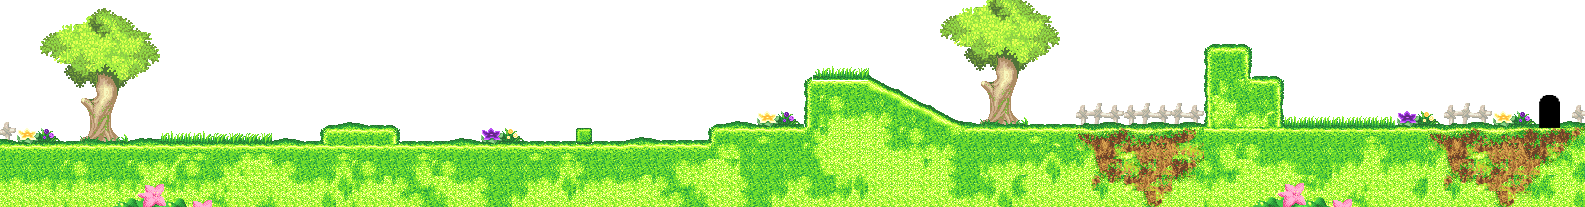
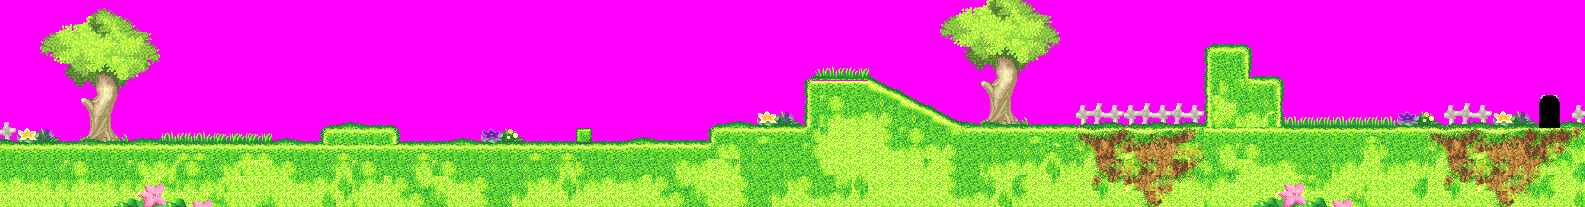
이민하 :  배경 테스트로 넣기

diff --git a/API/ContentsProject/Stage1_2GameMode.cpp b/API/ContentsProject/Stage1_2GameMode.cpp
@@ -1,5 +1,6 @@
 #include "PreCompile.h"
 #include "Stage1_2GameMode.h"
+#include "Stage1_2Map.h"
 #include <EnginePlatform/EngineInput.h>
 #include <EngineCore/EngineAPICore.h>
 
@@ -15,6 +16,7 @@ AStage1_2GameMode::~AStage1_2GameMode()
 void AStage1_2GameMode::BeginPlay()
 {
 	Super::BeginPlay();
+	AStage1_2Map* NewMap = GetWorld()->SpawnActor<AStage1_2Map>();
 }
 
 void AStage1_2GameMode::Tick(float _DeltaTime)
@@ -23,7 +25,7 @@ void AStage1_2GameMode::Tick(float _DeltaTime)
 
 	if (true == UEngineInput::GetInst().IsDown(VK_LBUTTON))
 	{
-		//UEngineAPICore::GetCore()->OpenLevel("Stage1_3");
+		UEngineAPICore::GetCore()->OpenLevel("Stage1_3");
 	}
 
 }

diff --git a/API/ContentsProject/Stage1_3Map.cpp b/API/ContentsProject/Stage1_3Map.cpp
@@ -5,6 +5,18 @@
 #include "ContentsEnum.h"
 AStage1_3Map::AStage1_3Map()
 {
+	SpriteRenderer = CreateDefaultSubObject<USpriteRenderer>();
+	SpriteRenderer->SetOrder(ERenderOrder::FOREGROUND);
+	SpriteRenderer->SetSprite("foreground1-3.png");
+
+	FVector2D Size = UEngineAPICore::GetCore()->GetMainWindow().GetWindowSize();
+
+
+	FVector2D MapScale = SpriteRenderer->SetSpriteScale(2.5f);
+	//SpriteRenderer->SetComponentLocation({ (int)(Size.X * 3.2) - 100, (int)(Size.Y / 2) });
+	SpriteRenderer->SetComponentLocation({ (int)(Size.X/2)+45,75 });
+
+
 }
 
 AStage1_3Map::~AStage1_3Map()

diff --git a/API/ContentsProject/Stage1_2Map.cpp b/API/ContentsProject/Stage1_2Map.cpp
@@ -5,6 +5,15 @@
 #include "ContentsEnum.h"
 AStage1_2Map::AStage1_2Map()
 {
+	SpriteRenderer = CreateDefaultSubObject<USpriteRenderer>();
+	SpriteRenderer->SetOrder(ERenderOrder::FOREGROUND);
+	SpriteRenderer->SetSprite("foreground1-2.png");
+
+	FVector2D Size = UEngineAPICore::GetCore()->GetMainWindow().GetWindowSize();
+
+
+	FVector2D MapScale = SpriteRenderer->SetSpriteScale(2.5f);
+	SpriteRenderer->SetComponentLocation({ (int)(Size.X * 3.2)-100, (int)(Size.Y / 2) });
 }
 
 AStage1_2Map::~AStage1_2Map()

diff --git a/API/ContentsProject/Stage1_4Map.cpp b/API/ContentsProject/Stage1_4Map.cpp
@@ -5,6 +5,15 @@
 #include "ContentsEnum.h"
 AStage1_4Map::AStage1_4Map()
 {
+	SpriteRenderer = CreateDefaultSubObject<USpriteRenderer>();
+	SpriteRenderer->SetOrder(ERenderOrder::FOREGROUND);
+	SpriteRenderer->SetSprite("foreground1-4.png");
+
+	FVector2D Size = UEngineAPICore::GetCore()->GetMainWindow().GetWindowSize();
+
+
+	FVector2D MapScale = SpriteRenderer->SetSpriteScale(2.5f);
+	SpriteRenderer->SetComponentLocation({ (int)(Size.X * 3.2), (int)(Size.Y / 2)+50 });
 }
 
 AStage1_4Map::~AStage1_4Map()

diff --git a/API/ContentsProject/Player.cpp b/API/ContentsProject/Player.cpp
@@ -11,11 +11,11 @@ APlayer::APlayer()
 {
 	// UEngineAPICore::GetCore()->CreateLevel("Title");
 	//UEngineAPICore::GetCore()->GetMainWindow().GetBackBuffer();
-	SetActorLocation({ 180, 346 });
+	SetActorLocation({ 150, 325 });
 
 	SpriteRenderer = CreateDefaultSubObject<USpriteRenderer>();
 	SpriteRenderer->SetSprite("KirbyDance.png");
-	SpriteRenderer->SetComponentScale({ 180, 180 });
+	SpriteRenderer->SetComponentScale({ 270, 270 });
 
 	SetName("Kirby");
 }

diff --git a/API/ContentsProject/Stage1_4GameMode.cpp b/API/ContentsProject/Stage1_4GameMode.cpp
@@ -1,5 +1,6 @@
 #include "PreCompile.h"
 #include "Stage1_4GameMode.h"
+#include "Stage1_4Map.h"
 #include <EnginePlatform/EngineInput.h>
 #include <EngineCore/EngineAPICore.h>
 AStage1_4GameMode::AStage1_4GameMode()
@@ -13,6 +14,10 @@ AStage1_4GameMode::~AStage1_4GameMode()
 void AStage1_4GameMode::BeginPlay()
 {
 	Super::BeginPlay();
+
+
+	AStage1_4Map* NewMap = GetWorld()->SpawnActor<AStage1_4Map>();
+
 }
 
 void AStage1_4GameMode::Tick(float _DeltaTime)

diff --git a/API/EngineCore/Level.cpp b/API/EngineCore/Level.cpp
@@ -88,8 +88,8 @@ void ULevel::Render(float _DeltaTime)
 	{
 		if (MainPawn->GetName() == "Kirby") {
 			CameraPos = MainPawn->GetTransform().Location + CameraPivot;
+			CameraPos.Y = 0;
 			if (CameraPos.X <= 0) CameraPos.X = 0;
-			if (CameraPos.Y >= 0) CameraPos.Y = 0;
 
 		}
 	}

diff --git a/API/ContentsProject/Stage1_1GameMode.cpp b/API/ContentsProject/Stage1_1GameMode.cpp
@@ -15,6 +15,7 @@ void AStage1_1GameMode::BeginPlay()
 {
 	Super::BeginPlay();
 
+
 	AStage1_1Map* NewActor = GetWorld()->SpawnActor<AStage1_1Map>();
 }
 
